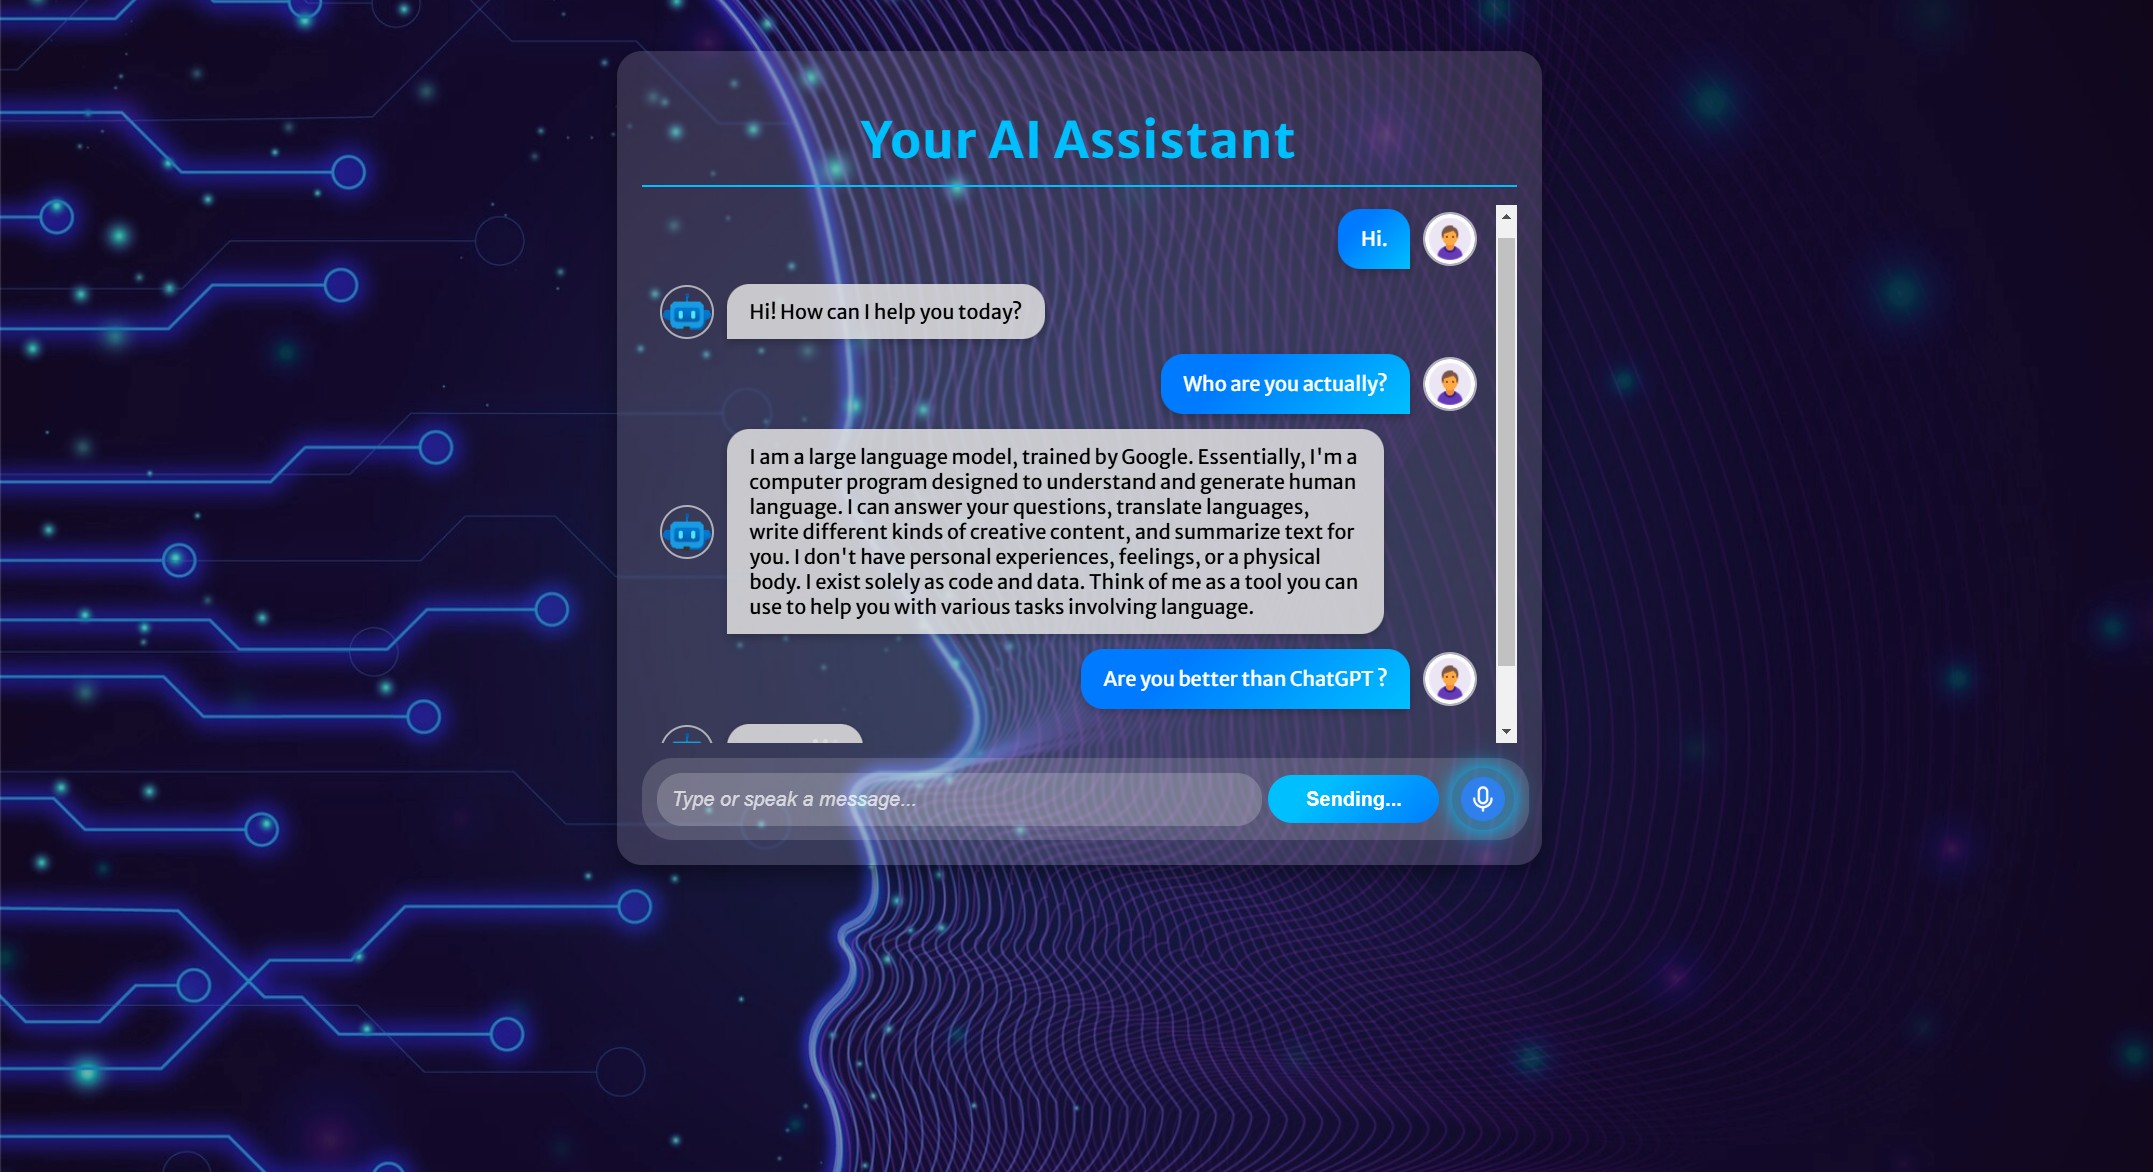
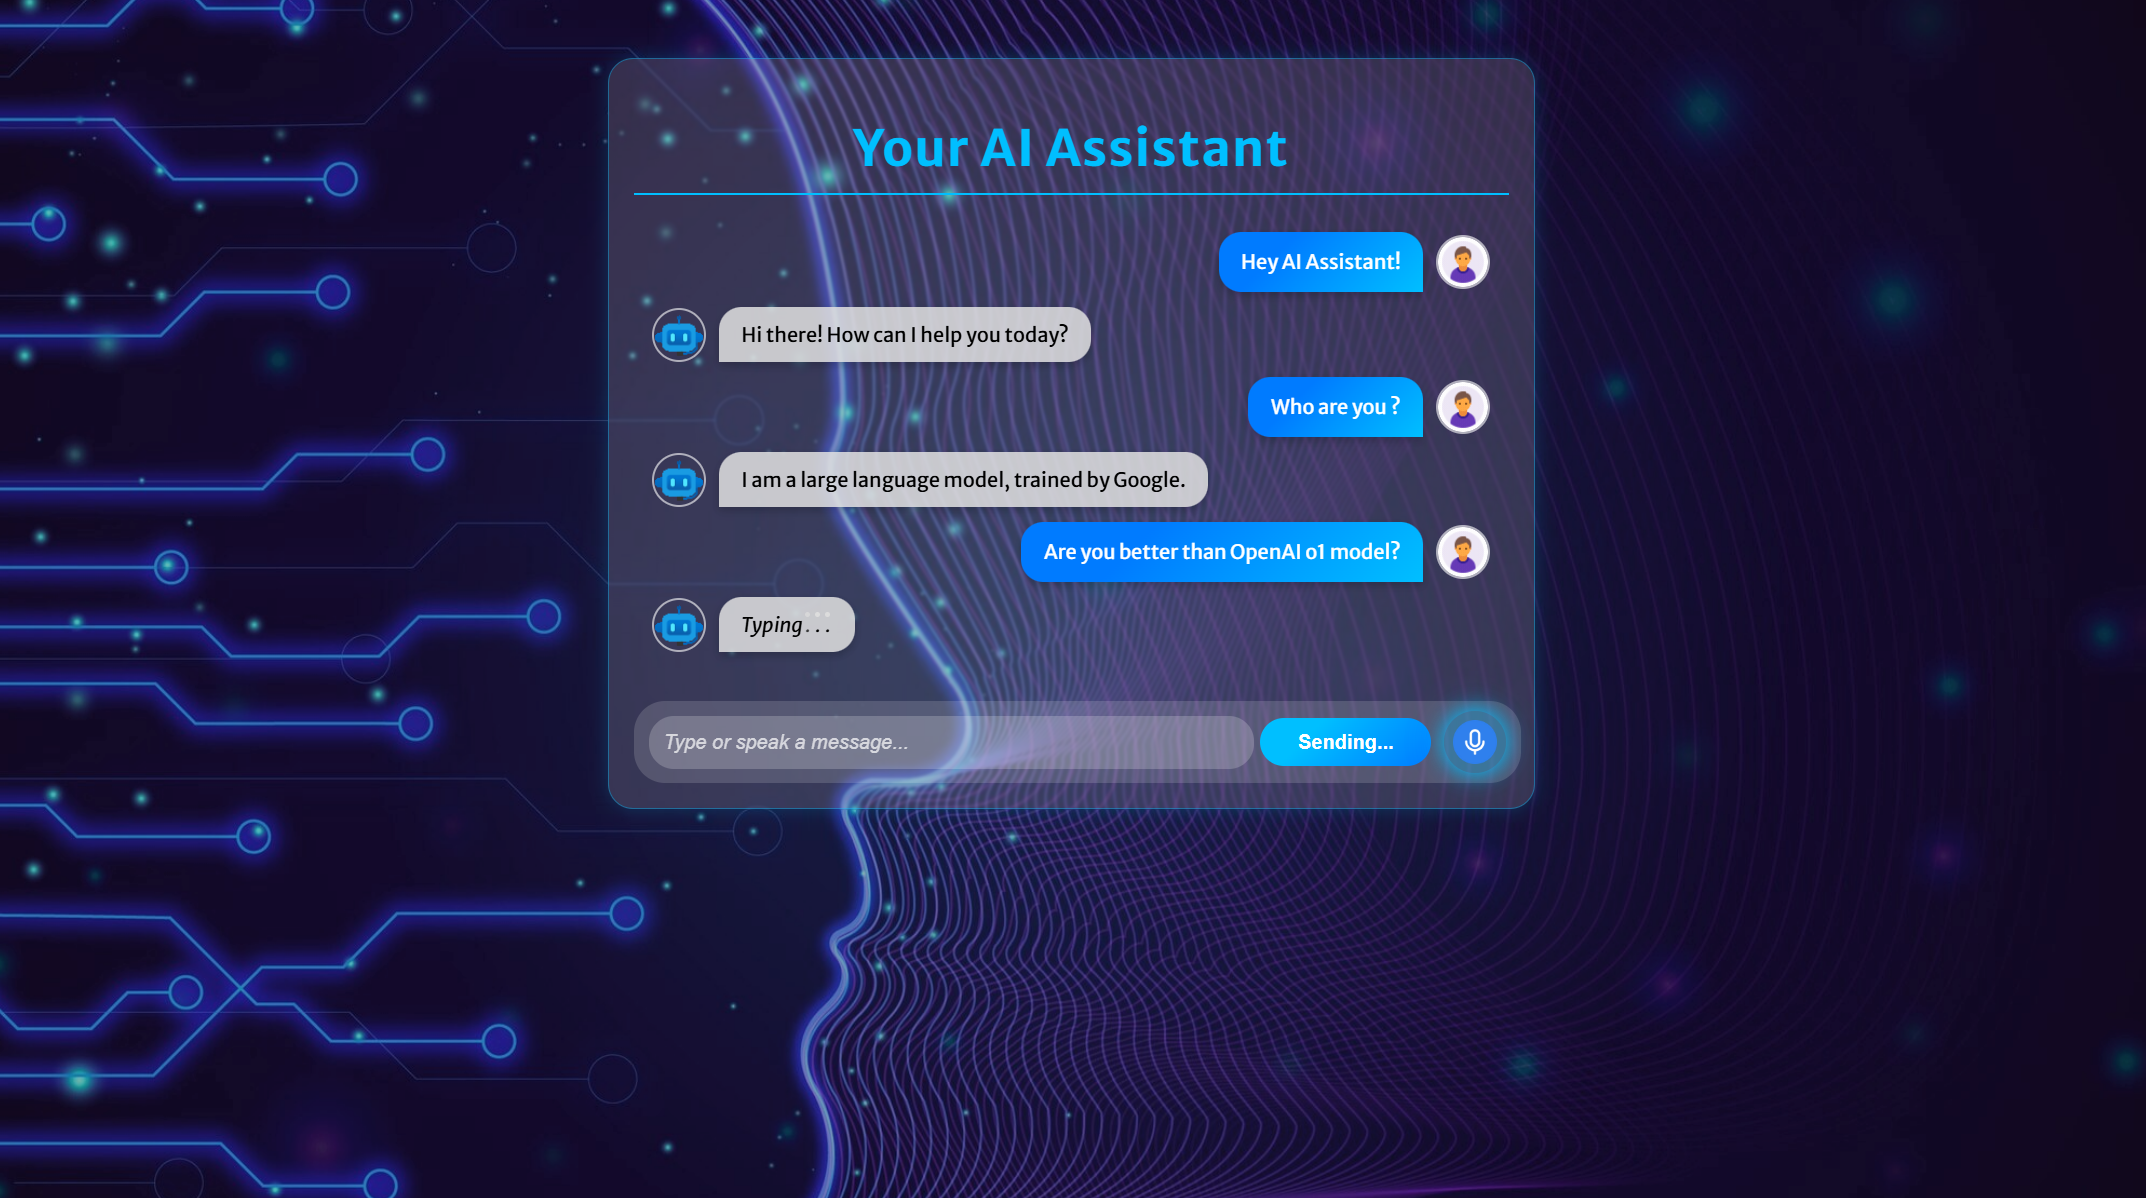
subtle-glow-around-chat-box

diff --git a/static/main.js b/static/main.js
@@ -35,7 +35,7 @@ document.addEventListener("DOMContentLoaded", function () {
         messageDiv.classList.add("message", role);
 
         const avatar = document.createElement("img");
-        avatar.src = role === "user" ? "static/icons8-circled-user-male-skin-type-4.gif" : "static/icons8-robot.gif";
+        avatar.src = role === "user" ? "static/assets/icons8-circled-user-male-skin-type-4.gif" : "static/assets/icons8-robot.gif";
         avatar.alt = role === "user" ? "User" : "Bot";
 
         const textDiv = document.createElement("div");
@@ -59,7 +59,7 @@ document.addEventListener("DOMContentLoaded", function () {
         typingDiv.classList.add("message", "bot");
 
         const avatar = document.createElement("img");
-        avatar.src = "static/icons8-robot.gif";
+        avatar.src = "static/assets/icons8-robot.gif";
         avatar.alt = "Bot";
 
         const textDiv = document.createElement("div");
@@ -101,7 +101,7 @@ document.addEventListener("DOMContentLoaded", function () {
             messagesDiv.removeChild(typingIndicator);
             addMessage("bot", "Error occurred, please try again.");
         } 
-    
+        
         messageInput.disabled = false;
         sendBtn.disabled = false;
         sendBtn.textContent = "Send";

diff --git a/static/style.css b/static/style.css
@@ -1,6 +1,6 @@
 body {
   font-family: 'Merriweather Sans', serif;
-  background: url('image2.jpg') no-repeat center center fixed;
+  background: url('/static/assets/image2.jpg') no-repeat center center fixed;
   background-size: cover;
   color: #fff;
   margin: 0;
@@ -14,7 +14,8 @@ body {
   background: rgba(255, 255, 255, 0.15);
   border-radius: 20px;
   padding: 20px;
-  box-shadow: 0 8px 20px rgba(0, 0, 0, 0.4);
+  border: 1px solid rgba(0, 191, 255, 0.4);
+  box-shadow: 0px 0px 15px rgba(0, 191, 255, 0.2);
   backdrop-filter: blur(1px);
   display: flex;
   flex-direction: column;
@@ -175,13 +176,14 @@ body {
   font-size: 1rem;
   font-weight: 700; /* Bold for emphasis */
   cursor: pointer;
-  transition: 0.3s;
+  transition: transform 0.2s ease-in-out, box-shadow 0.3s;
   margin-right: 10px;
 }
 
 #sendBtn:hover {
   background: linear-gradient(135deg, #007bff 30%, #0056b3 100%);
   transform: scale(1.05);
+  box-shadow: 0px 0px 5px rgba(0, 191, 255, 0.8);
 }
 
 /* Microphone Button */

diff --git a/templates/index.html b/templates/index.html
@@ -10,7 +10,7 @@
 <body>
 
     <div class="chat-container">
-        <h1>Your AI Assistant</h1>
+        <h1>Your AI Assistant</h1> 
 
         <!-- Chat Messages Container -->
         <div class="messages" id="messages"></div>
@@ -20,10 +20,10 @@
             <input type="text" id="messageInput" placeholder="Type or speak a message...">
             <button id="sendBtn">Send</button>
             <button id="micBtn">
-                <img id="micIcon" src="static/voice.png" alt="Mic" width="25">
+                <img id="micIcon" src="static/assets/voice.png" alt="Mic" width="25">
             </button>
         </div>                
-    </div>
+    </div> 
     
 
     <script src="static/main.js"></script>

diff --git a/app.py b/app.py
@@ -39,3 +39,5 @@ def chat():
 
 if __name__ == '__main__':
     app.run(debug=True)
+    # app.run(host='0.0.0.0',port=3007,debug=True)
+
